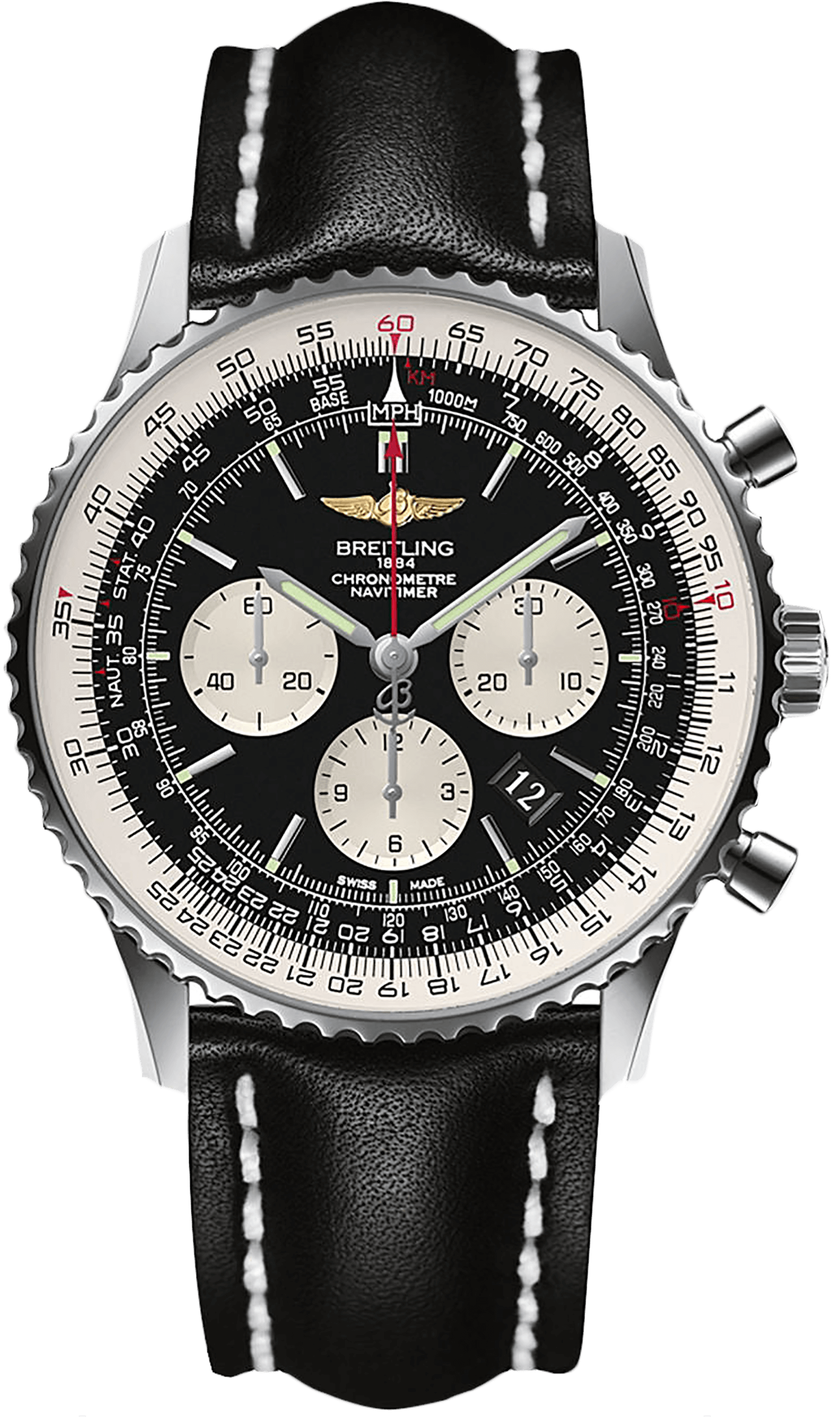
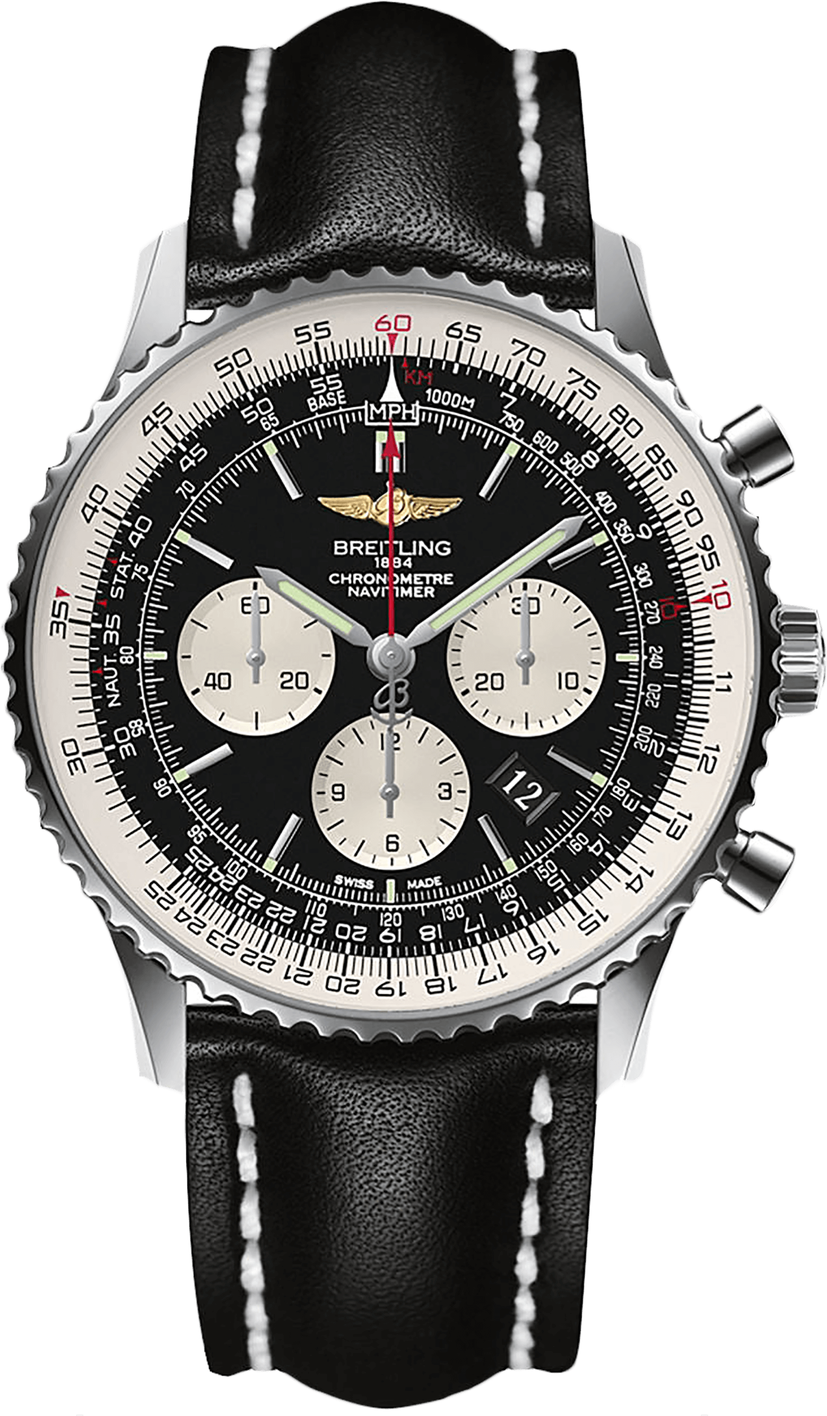
12/2 Commit 2

diff --git a/css/style.css b/css/style.css
@@ -305,6 +305,25 @@ footer {
 		top: 22vw;
 	}
 
+	.services-img-container .navitimer-movement-bottom {
+		position: relative;
+		z-index: 99;
+	}
+
+	.services-img-container .navitimer-movement-top {
+		position: absolute;
+		transform: translateX(-100%);
+	}
+
+	.services-img-container:hover .navitimer-movement-top {
+		transition: visibility .3s ease-in-out;
+	}
+
+	.services-img-container:hover .navitimer-movement-bottom {
+		transition: visibility .3s ease-in-out;
+		visibility: hidden;
+	}
+
 	h1 {
 		text-align: left;
 	}

diff --git a/services.html b/services.html
@@ -57,7 +57,8 @@
 		<p>From identification to evaluation, our appraiser will provide the proper documentation, whether for insurance or fair market value.</p>
 
 		<div class="services-img-container">
-			<img src="images/navitimer.png" alt="Breitling Navitimer">
+			<img src="images/navitimer.png" class="navitimer-movement-bottom" alt="Breitling Navitimer">
+			<img src="images/navitimer_movement.png" class="navitimer-movement-top" alt="Breitling Navitimer Movement">
 		</div>
 	</main>
 
